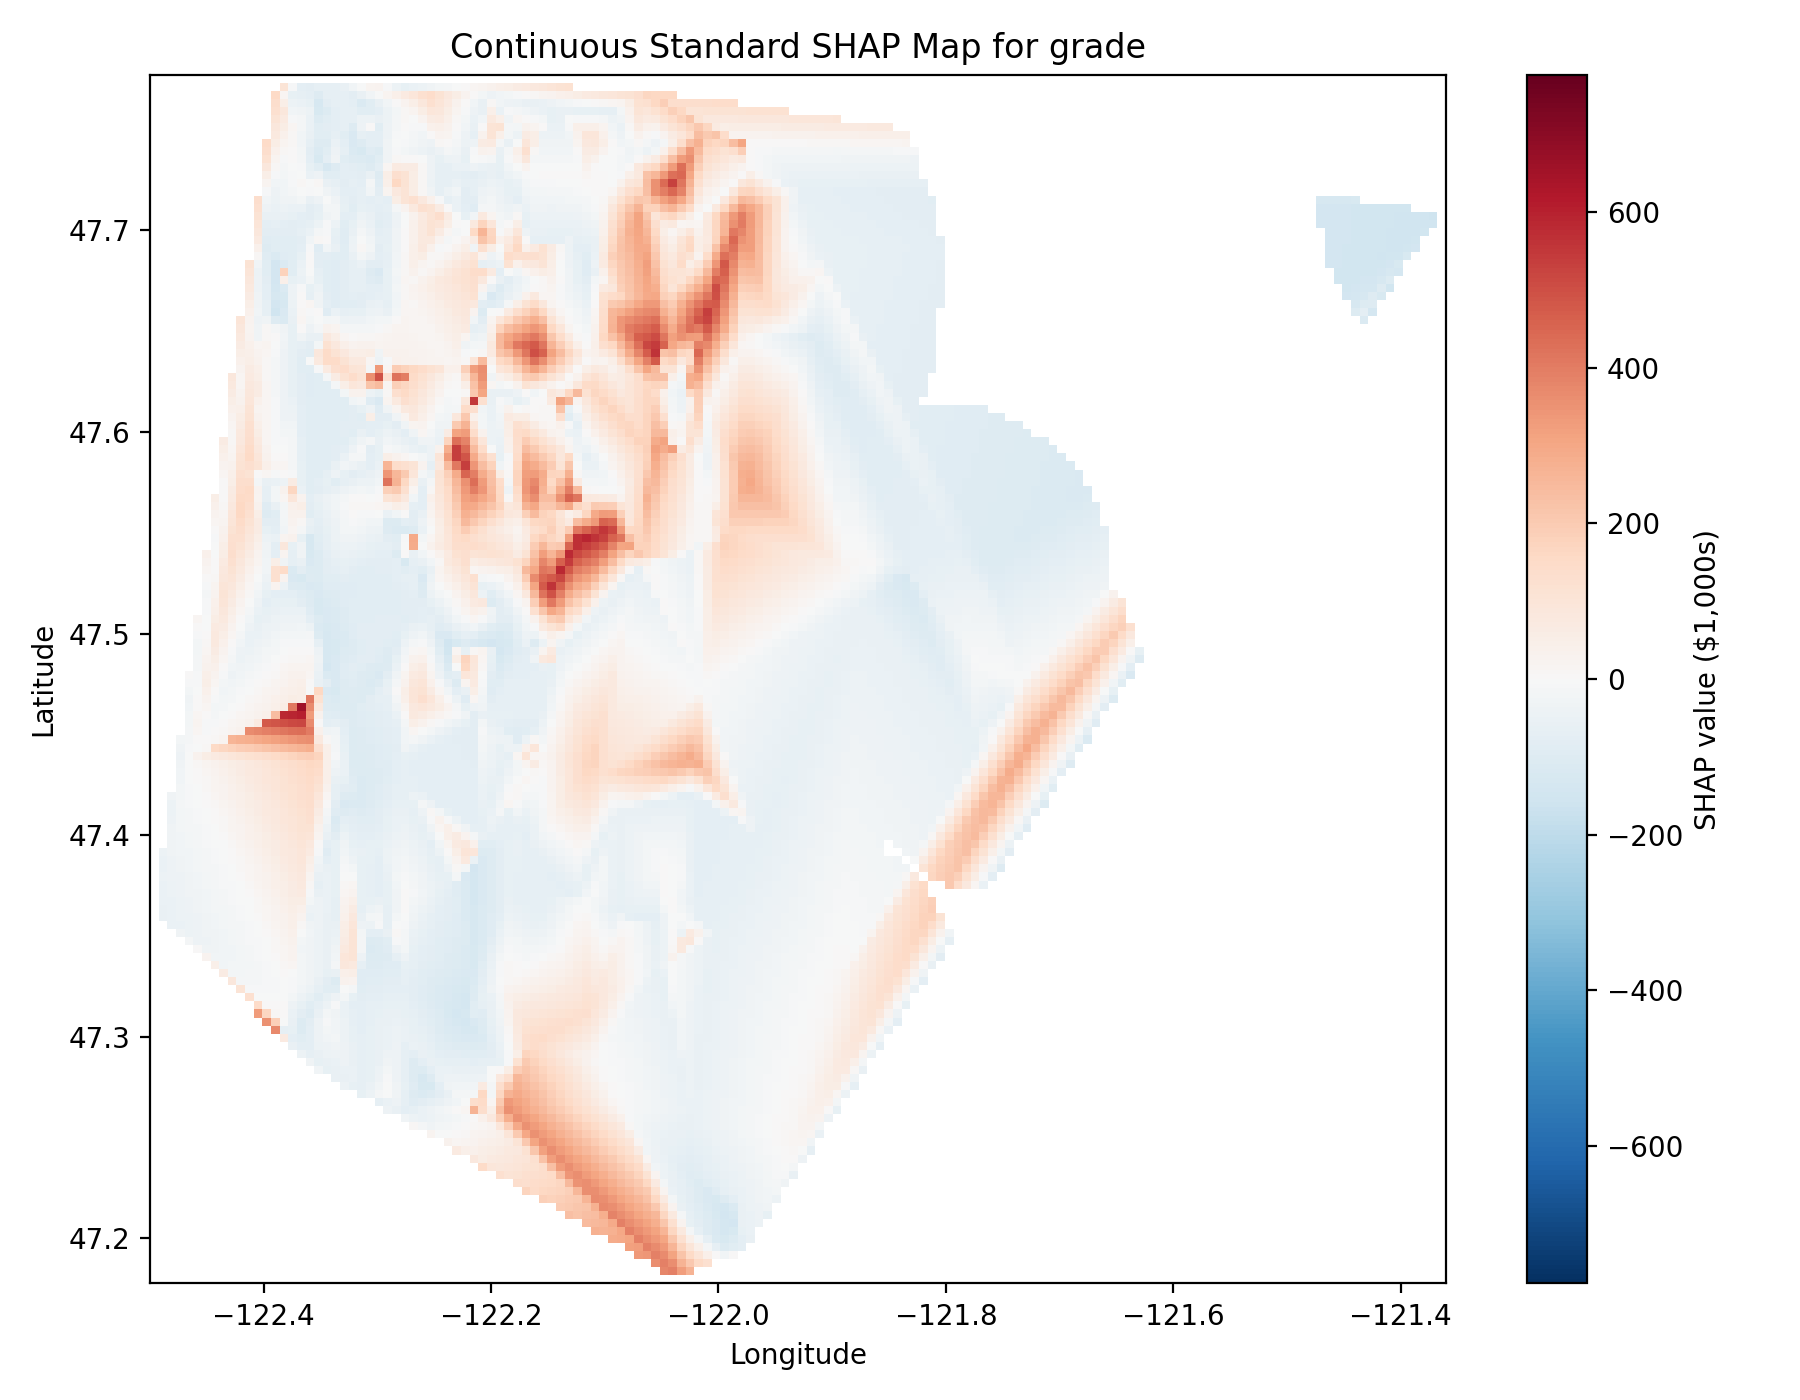
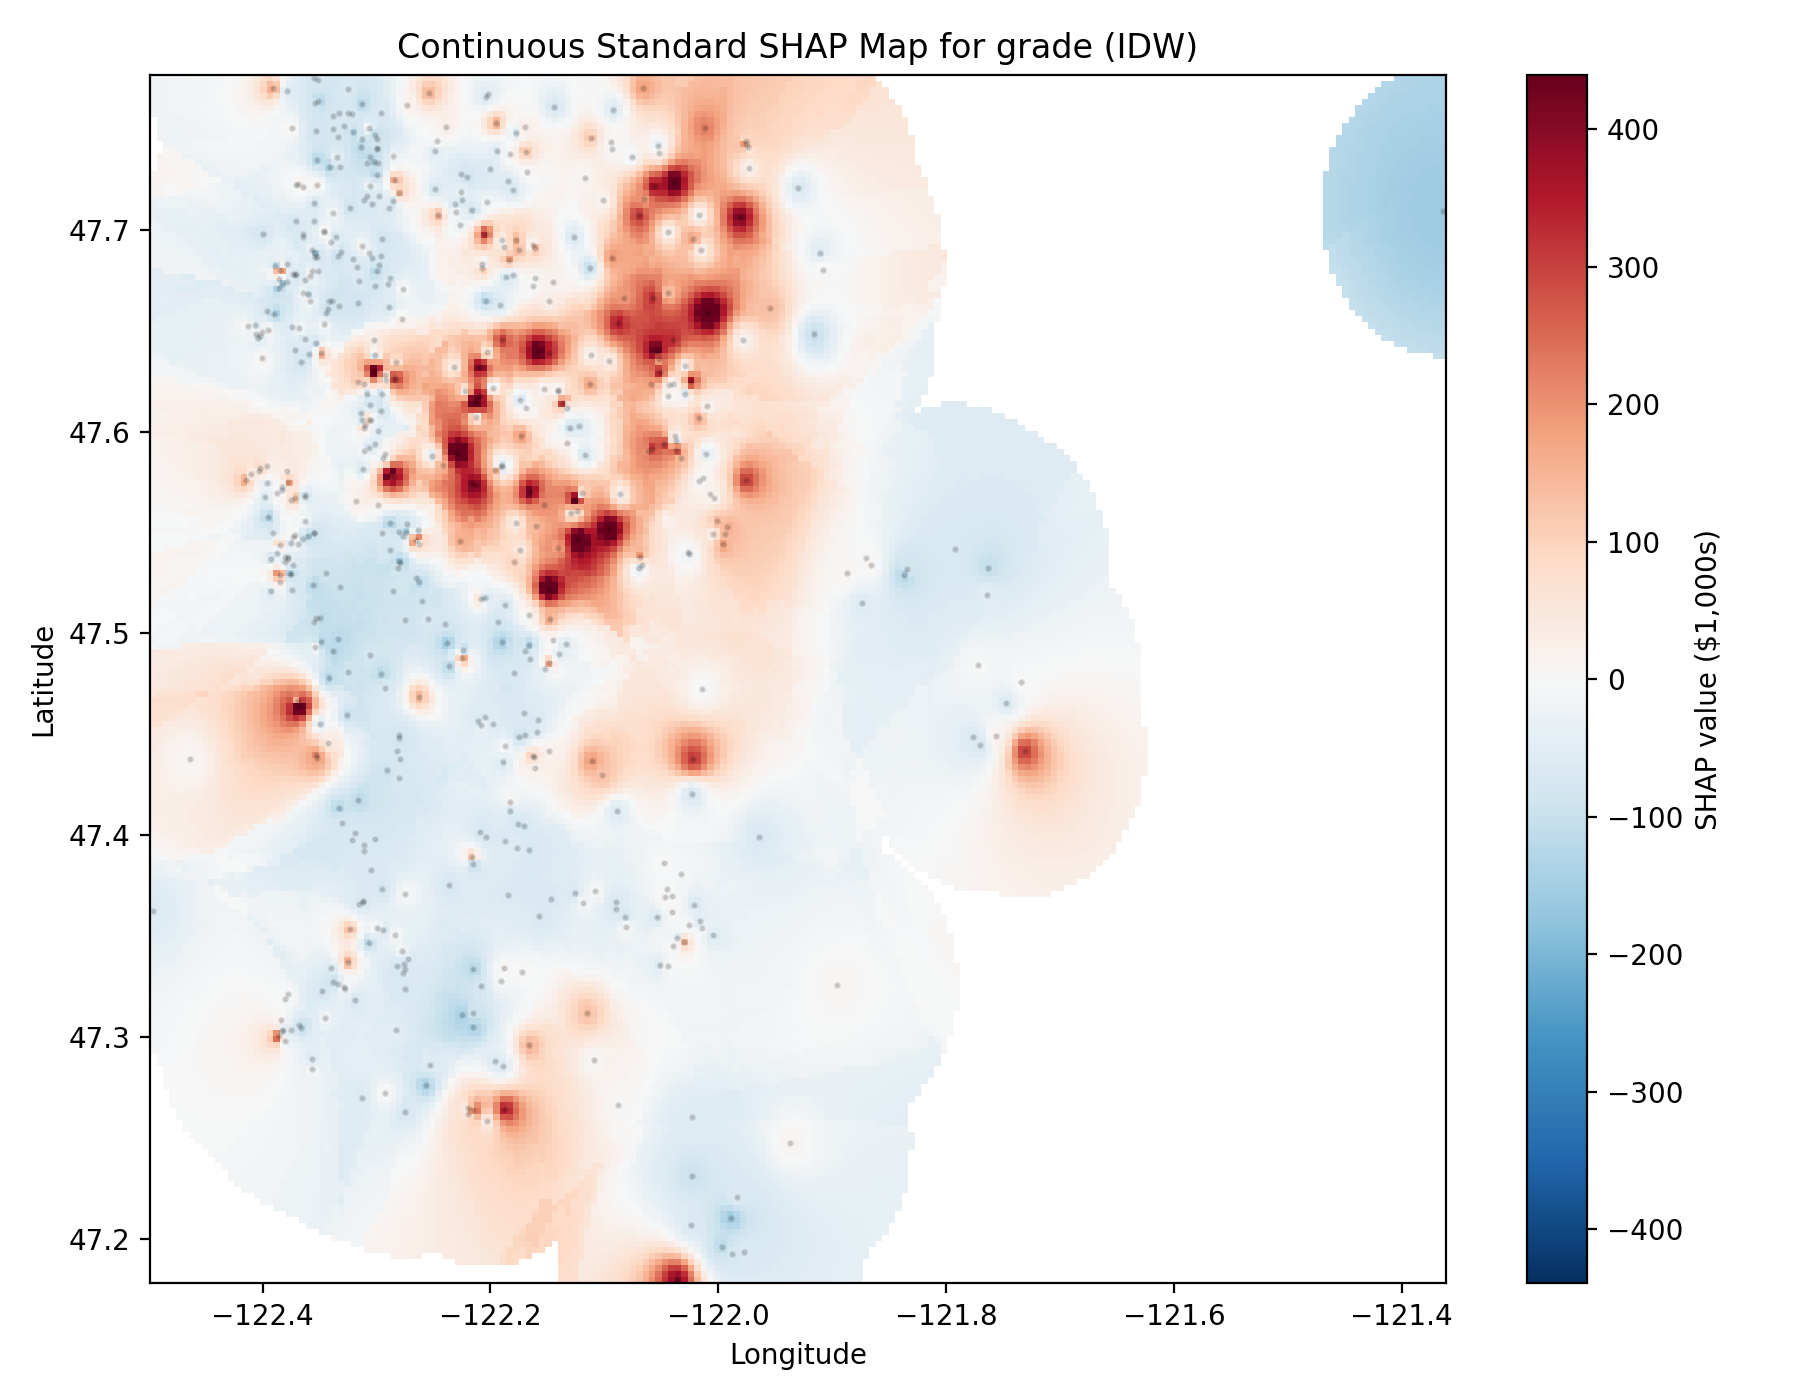
Improve continuous SHAP maps using IDW

diff --git a/make_continuous_maps.py b/make_continuous_maps.py
@@ -3,77 +3,68 @@ from pathlib import Path
 import numpy as np
 import pandas as pd
 import matplotlib.pyplot as plt
-from scipy.interpolate import griddata
 from scipy.spatial import cKDTree
 
 folder = Path(__file__).resolve().parent / "publication_result_1"
-
-df = pd.read_csv(
-    folder / "KingCounty_standard_vs_spatial_map_grade_600.csv"
-)
+df = pd.read_csv(folder / "KingCounty_standard_vs_spatial_map_grade_600.csv")
 
 lon = df["Longitude"].to_numpy()
 lat = df["Latitude"].to_numpy()
 
-# 150 x 150 continuous grid
-grid_lon, grid_lat = np.meshgrid(
-    np.linspace(lon.min(), lon.max(), 150),
-    np.linspace(lat.min(), lat.max(), 150)
+# Grid and approximate distance correction
+n = 200
+gx, gy = np.meshgrid(
+    np.linspace(lon.min(), lon.max(), n),
+    np.linspace(lat.min(), lat.max(), n)
 )
 
-points = np.column_stack([lon, lat])
-
-# Mask areas more than 8 km from the nearest house
 scale = np.cos(np.deg2rad(lat.mean()))
-tree = cKDTree(np.column_stack([lon * scale, lat]))
-distance, _ = tree.query(
-    np.column_stack([
-        grid_lon.ravel() * scale,
-        grid_lat.ravel()
-    ])
-)
-mask = distance.reshape(grid_lon.shape) > 8 / 111
+points = np.column_stack([lon * scale, lat])
+grid_points = np.column_stack([gx.ravel() * scale, gy.ravel()])
+
+tree = cKDTree(points)
+dist, indices = tree.query(grid_points, k=12)
+
+# IDW smoothing
+weights = 1 / np.maximum(dist, 1e-8) ** 2
+weights = weights / weights.sum(axis=1, keepdims=True)
+
+# Do not extrapolate far beyond observed houses
+mask = (dist[:, 0] * 111 > 8).reshape(gx.shape)
 
 maps = [
     ("Standard SHAP", "Figure26_continuous_standard_SHAP_grade.png"),
     ("Spatial SHAP", "Figure27_continuous_spatial_SHAP_grade.png"),
-    ("Spatial minus Standard", "Figure28_continuous_difference_SHAP_grade.png")
+    ("Spatial minus Standard", "Figure28_continuous_difference_SHAP_grade.png"),
 ]
 
-shared_limit = max(
-    df["Standard SHAP"].abs().max(),
-    df["Spatial SHAP"].abs().max()
+shared_limit = np.percentile(
+    np.abs(df[["Standard SHAP", "Spatial SHAP"]].to_numpy()), 98
 ) / 1000
 
 for column, filename in maps:
     values = df[column].to_numpy() / 1000
-
-    surface = griddata(
-        points,
-        values,
-        (grid_lon, grid_lat),
-        method="linear"
-    )
-
-    surface = np.ma.masked_invalid(surface)
+    surface = np.sum(values[indices] * weights, axis=1).reshape(gx.shape)
     surface = np.ma.masked_where(mask, surface)
 
     limit = (
         shared_limit if column != "Spatial minus Standard"
-        else df[column].abs().max() / 1000
+        else np.percentile(np.abs(values), 98)
     )
 
     fig, ax = plt.subplots(figsize=(9, 7))
 
     im = ax.pcolormesh(
-        grid_lon, grid_lat, surface,
-        cmap="RdBu_r",
+        gx, gy, surface,
         shading="auto",
+        cmap="RdBu_r",
         vmin=-limit,
         vmax=limit
     )
 
-    ax.set_title(f"Continuous {column} Map for grade")
+    ax.scatter(lon, lat, s=2, c="black", alpha=0.12)
+
+    ax.set_title(f"Continuous {column} Map for grade (IDW)")
     ax.set_xlabel("Longitude")
     ax.set_ylabel("Latitude")
 
@@ -84,4 +75,4 @@ for column, filename in maps:
 
     print("Saved:", filename)
 
-print("DONE: All 3 continuous maps generated.")
+print("DONE")
